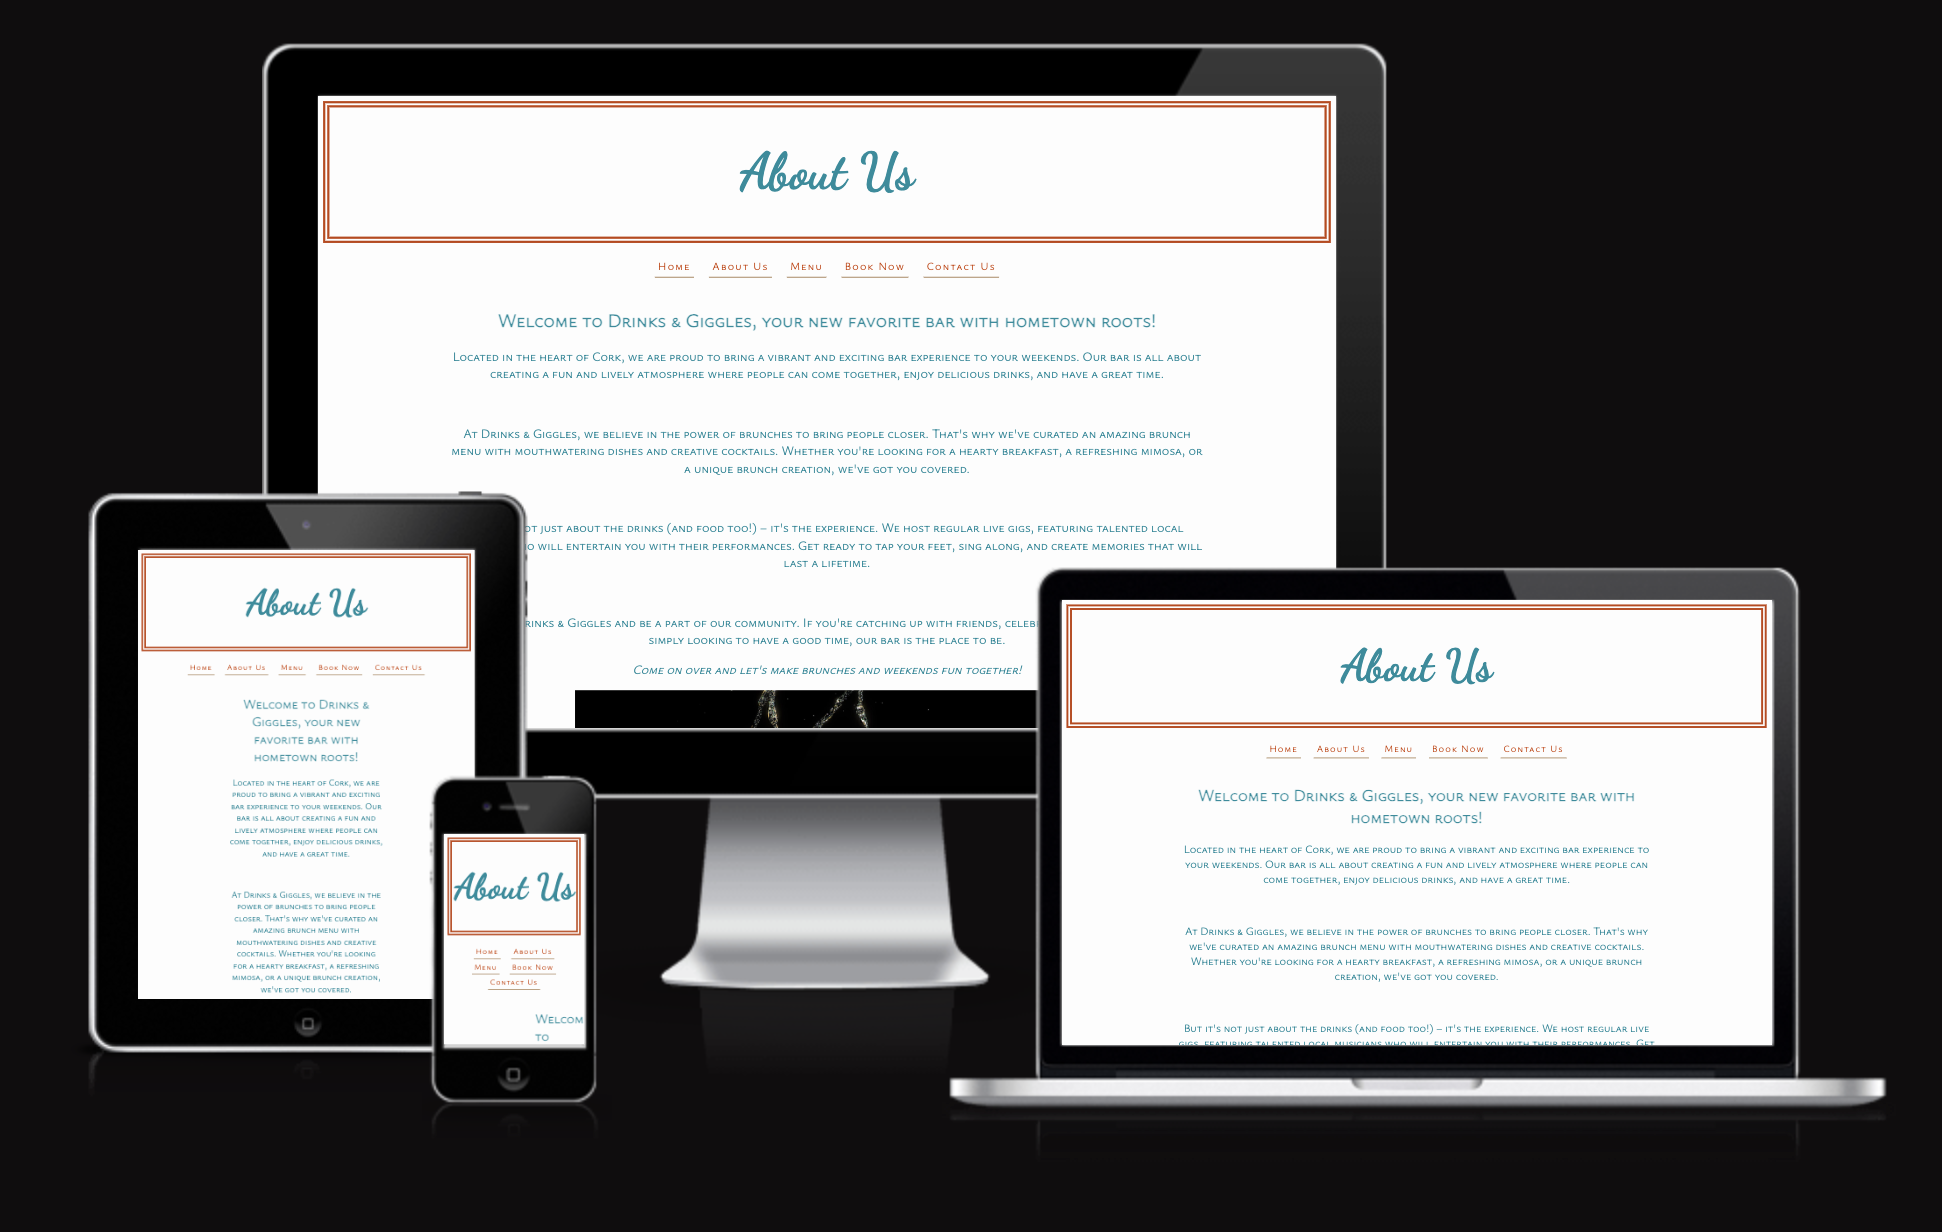
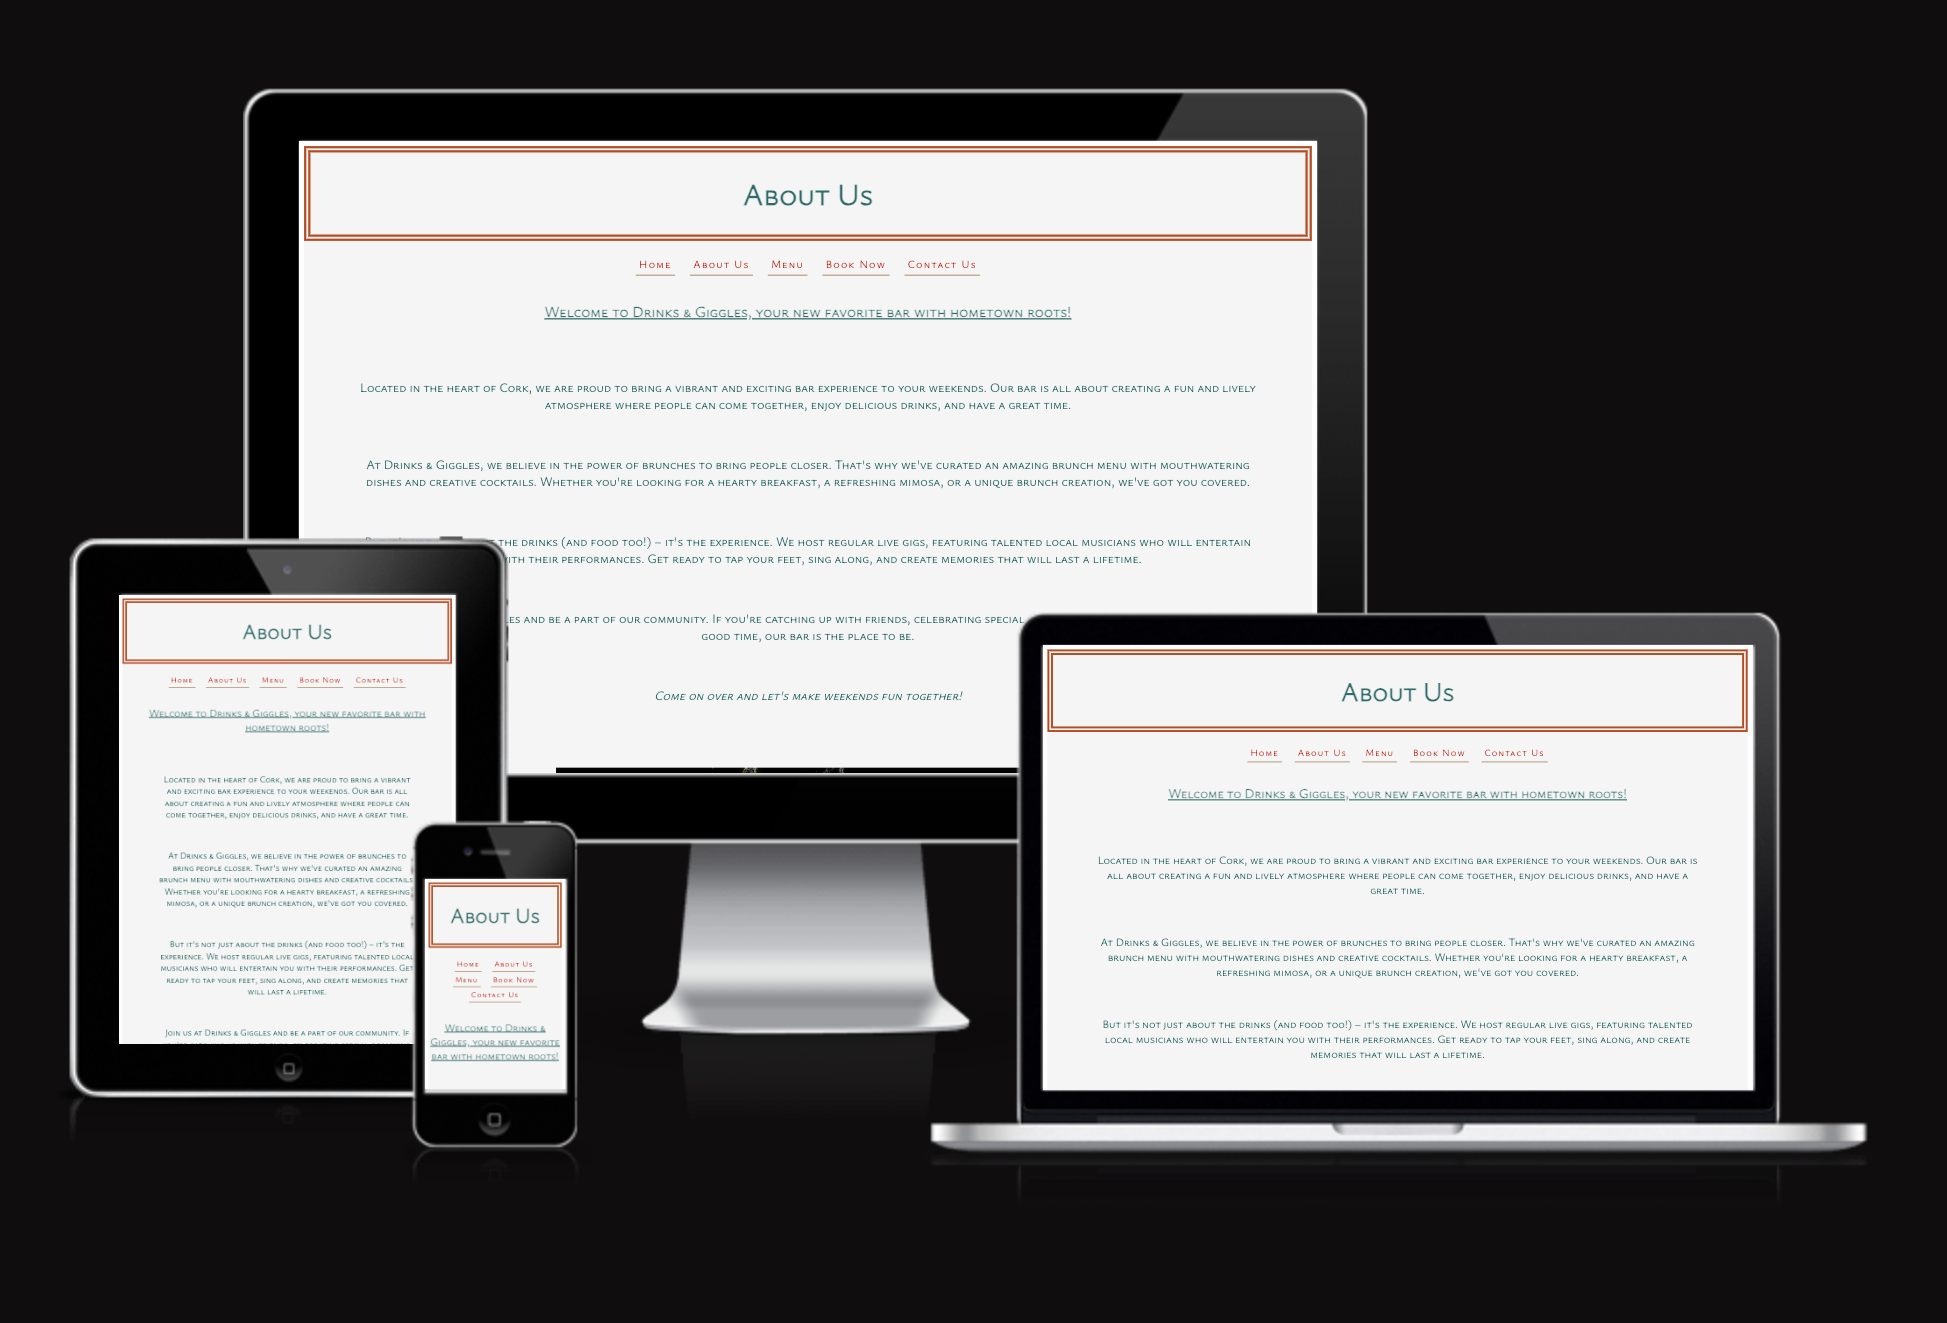
updated README with links and images

Changed region(s): [[0.0309, 0.0308, 0.9887, 0.9253]]

diff --git a/readme.md b/readme.md
@@ -38,32 +38,48 @@ The website uses a palette of [summery/bright/fun colours](https://coolors.co/06
 
 Google Fonts was used for the following fonts:
 
-Ysabeau SC is used for body on the site. It is a Garamond font.
+*Ysabeau SC is used for body on the site. It is a Garamond font.*
 
-Dancing Script is used for the title/header text on the site. It is a cursive font.
+*Dancing Script is used for the title/header text on the site. It is a cursive font.*
 
 
 **Imagery**
 
 All imagery was used from [Pexels](https://www.pexels.com/search/drinks/). I have credited these in the credits section.
 
-**Features**
+## Features
 
 The website is comprised of six pages, five of which are accessible from the navigation menu. 
 
 To ensure consistency and a user friendly system: 
 
-- All Pages on the website have a responsive navigation bar at the top which allows the user to navigate through the site. 
+- All Pages on the website have a responsive navigation bar at the top which allows the user to navigate through the site. <img src="https://github.com/ljsummers/drinks-giggles/blob/main/assets/images/readme/menu_bar.png" alt="menu bar"> 
 - A [footer](https://github.com/ljsummers/drinks-giggles/blob/main/assets/images/readme/footer.png) which contains social media icon links to Facebook, Instagram and Twitter. Icons were used to keep the footer clean and because they are universally recognisable.
 - The same color scheme is applied throughout the website to keep it on brand. 
 
 **Home Page**
+A quick description as to what the website is about with a hero image to instantly identify as to Drinks & Giggles is about. It also advertises the opening night event. 
+<img src="https://github.com/ljsummers/drinks-giggles/blob/35640d4d95b116e0c25b0f3a72851a0d47b1fb4c/assets/images/air/air_index_page.png" alt="am i responsive index">
 
-A quick description as to what the website is about with a hero image to instantly identify as to Drinks & Giggles is about. 
+**About Page**
+A more comphregensive description as to the bar is, what it aims to bring to the public, sells the UPI about community and an experience to enjoy. 
+<img src="https://github.com/ljsummers/drinks-giggles/blob/35640d4d95b116e0c25b0f3a72851a0d47b1fb4c/assets/images/air/air_about_page.png" alt="am i responsive about">
 
+**Menu Page**
+Carrying on the theme of vibrant colors, the menu offers what cocktails are available as well as brunch/dinner options so the public can peruse in advance of visiting the bar. 
+<img src="https://github.com/ljsummers/drinks-giggles/blob/35640d4d95b116e0c25b0f3a72851a0d47b1fb4c/assets/images/air/air_menu_page.png" alt="am i responsive menu">
 
+**Booking Page**
+Users can book a reservation for up to 8 people using the booking page. Without using Javascript, the form leads to an error page upon clicking 'book now'. 
+<img src="https://github.com/ljsummers/drinks-giggles/blob/35640d4d95b116e0c25b0f3a72851a0d47b1fb4c/assets/images/air/air_booking_page.png" alt="am i responsive booking">
 
-A message thanks the user for submitting the form and lets them know someone will be in touch soon.
+**Contact Page**
+The contact page provides opening times, the address as well as a general form for users to submit if they have any questions about the bar. There is also a map which gives a general direction to the bar's location. 
+<img src="https://github.com/ljsummers/drinks-giggles/blob/35640d4d95b116e0c25b0f3a72851a0d47b1fb4c/assets/images/air/air_contact_page.png" alt="am i responsive contact>
+
+**Thank You Page**
+The page was created in mind for thanking the user for submitting the form (booking or contact) and lets them know someone will be in touch soon. 
+<img src="https://github.com/ljsummers/drinks-giggles/blob/main/assets/images/readme/thankyou_page.png">
 
 
 **Future Implementations**
@@ -79,21 +95,20 @@ I have been mindful during coding to ensure that the website is as accessible fr
 - Using descriptive alt attributes on images on the site.
 - Ensuring that there is a sufficient colour contrast throughout the site.
 - Ensuring menus are accessible by marking the current page as current for screen readers.
+- Checking the accessibility score on Lighthouse and Wave. 
+<img src="https://github.com/ljsummers/drinks-giggles/blob/main/assets/images/readme/wave_test.png" alt="score from WAVE">
 
 
 
 ## Technologies Used
 
-
-Languages Used: 
-
-HTML and CSS were used to create this website.
+Languages Used: HTML and CSS were used to create this website.
 
 **Libraries & Programs Used**
 
 Github - To save and store the files for the website.
 
-Visual Studio Code - The framework for the website. 
+Visual Studio Code - To build and create the framework for the website. 
 
 Google Fonts - To import the fonts used on the website.
 
@@ -101,9 +116,11 @@ Font Awesome - For the iconography on the website.
 
 Google Dev Tools - To troubleshoot and test features, solve issues with responsiveness and styling.
 
-[Favicon.io](https://favicon.io/) To create favicon.
+[Favicon.io](https://favicon.io/) to create favicons.
 
-[Am I Responsive?](https://ui.dev/amiresponsive) To show the website image on a range of devices.
+[Am I Responsive?](https://ui.dev/amiresponsive) to show the website image on a range of devices.
+
+
 ## Deployment & Local Development
 
 **Deployment**
@@ -136,7 +153,7 @@ To clone the drinks-giggles repository:
 - Open the terminal in your code editor and change the current working directory to the location you want to use for the cloned directory.
 - Type 'git clone into the terminal and then paste the link you copied in step 3. Press enter.
 
-## Testing
+## Testing & Bugs
 
 Testing was ongoing throughout the entire build. I utilised Chrome developer tools while building to pinpoint and troubleshoot any issues as I went along.
 
@@ -146,10 +163,12 @@ Testing was ongoing throughout the entire build. I utilised Chrome developer too
 
 The following issues were raised during my mid project meeting with my mentor:
 
-- unable to link thankyou.html to the css style sheet without JS
-- bullet points on the index page looked out of place 
-- aboutus page needed to have margins added 
+- unable to link thankyou.html to the css style sheet without JS.
+- bullet points on the index page looked out of place. 
+- aboutus page needed to have margins added to make readability easier.
 
+
+**Code Validation** 
 
 [W3C Validator](https://validator.w3.org/)
 The W3C validator was used to validate the HTML on all pages of the website. It was also used to validate CSS in the style.css file.
@@ -160,10 +179,10 @@ The W3C validator was used to validate the HTML on all pages of the website. It 
 - [Index Page](https://github.com/ljsummers/drinks-giggles/blob/main/assets/images/validator/w3_index_page.png)
 - [Menu Page](https://github.com/ljsummers/drinks-giggles/blob/main/assets/images/validator/w3_menu_page.png)
 - [Thank You Page](https://github.com/ljsummers/drinks-giggles/blob/main/assets/images/validator/w3_thankyou_page.png)
-- [Style.css](http://jigsaw.w3.org/css-validator/validator?lang=en&profile=css3svg&uri=https%3A%2F%2Fljsummers.github.io%2Fdrinks-giggles%2Findex.html&usermedium=all&vextwarning=&warning=2))
+- [Style.css](http://jigsaw.w3.org/css-validator/validator?lang=en&profile=css3svg&uri=https%3A%2F%2Fljsummers.github.io%2Fdrinks-giggles%2Findex.html&usermedium=all&vextwarning=&warning=2)
 
 
-Solved Bugs
+**Solved Bugs**
 
 - overlapping of footer with bar address on index page on mobile devices
 
